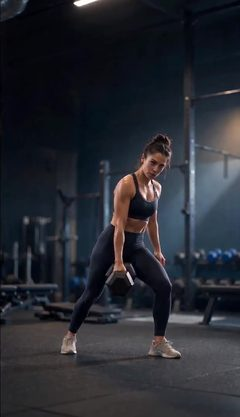
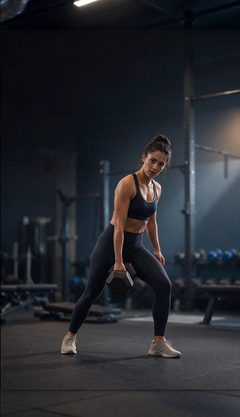
1.8.73 : écran du prénom revu (titre en haut, champ et flèche à la hauteur des haltères), images HD au cadrage du film, Bonjour pendant le film, texte d'aide qui monte, fond Bienvenue imposé
Claude-Session: https://claude.ai/code/session_01D2bERS9HLrYDfbmYJhTd1N

diff --git a/js/programmes.js b/js/programmes.js
@@ -72,6 +72,12 @@ function onboardingContinue(ev) {
 // le fond « Bienvenue » est sa dernière image. « Bonjour + prénom » apparaît pendant la dernière seconde ;
 // le menu, le + et le texte d'aide apparaissent à la fin. Sans le fond « Bienvenue », ou si le film ne se lance pas : « Bonjour » direct.
 const INTRO_FILM = 'wallpapers/intro.mp4';
+// 1.8.73 : le fond « Bienvenue » est imposé à l'écran du prénom (et à la réinitialisation des données), sinon le film ne se jouait pas
+function forceWelcomeWallpaper() {
+  if (getWallpaper() === 'bienvenue') return;
+  try { localStorage.setItem(WALLPAPER_KEY, 'bienvenue'); } catch (e) {}
+  applyWallpaper();
+}
 function playIntroFilm() {
   const wp = document.getElementById('app-wallpaper');
   if (!wp || getWallpaper() !== 'bienvenue' || !document.createElement('video').canPlayType) return false;
@@ -79,27 +85,31 @@ function playIntroFilm() {
   v.className = 'intro-video';
   v.muted = true; v.defaultMuted = true; v.playsInline = true;
   v.setAttribute('muted', ''); v.setAttribute('playsinline', ''); v.setAttribute('aria-hidden', 'true');
-  v.preload = 'auto'; v.poster = 'wallpapers/intro-debut.jpg'; v.src = INTRO_FILM;
+  v.preload = 'auto'; v.src = INTRO_FILM;
   document.body.classList.add('intro');
   wp.appendChild(v);
   let greeted = false, done = false, timer = null;
+  // « Bonjour + prénom » dès la première seconde du film (1.8.73)
   const greet = () => {
     if (greeted) return;
     greeted = true;
     document.body.classList.add('intro-end');
     renderProgramOverview();
   };
+  // Fin : le film s'efface sur l'image haute définition (même cadrage), le texte d'aide monte du bas en fondu
   const end = () => {
     if (done) return;
     done = true;
     clearTimeout(timer);
     greet();
+    v.classList.add('out');
     document.body.classList.remove('intro', 'intro-end');
     document.body.classList.add('intro-reveal');
-    v.remove();
-    setTimeout(() => document.body.classList.remove('intro-reveal'), 600);
+    setTimeout(() => v.remove(), 400);
+    setTimeout(() => document.body.classList.remove('intro-reveal'), 900);
   };
-  v.addEventListener('timeupdate', () => { if (v.duration && v.currentTime >= v.duration - 1) greet(); });
+  v.addEventListener('playing', () => v.classList.add('on'));
+  v.addEventListener('timeupdate', () => { if (v.currentTime >= 1) greet(); });
   v.addEventListener('ended', end);
   v.addEventListener('error', end);
   timer = setTimeout(end, 9000);   // filet : le film dure 5,2 s
@@ -114,6 +124,7 @@ function updateProgramHeader() {
   const add = document.getElementById('add-program-btn');
   const onb = (document.body.dataset.tab || 'programme') === 'programme' && programView === 'home' && isOnboarding();
   document.body.classList.toggle('onboarding', onb);
+  if (onb) forceWelcomeWallpaper();   // 1.8.73 : l'écran du prénom a toujours le fond du film d'accueil
   if (add) {
     add.style.display = (document.body.dataset.tab || 'programme') === 'programme' && programView === 'home' && !onb ? 'flex' : 'none';
     add.classList.toggle('attention', !plusSeen() && !getPrograms().length);
@@ -235,9 +246,11 @@ function emptyProgramsHtml() {
   // 1.8.62 : premier lancement = écran du prénom ; ensuite « Bonjour + prénom », phrase manuscrite, texte d'aide en bas
   if (isOnboarding()) return `
     <form class="onb" onsubmit="onboardingContinue(event)">
-      <h1 class="onb-title">Bienvenue sur Mon Carnet de Salle</h1>
-      <label class="ed-field onb-field"><input id="onb-name" type="text" autocomplete="given-name" maxlength="30" placeholder="Quel est ton nom ?" aria-label="Quel est ton nom ?" oninput="onboardingInput(this)"><span class="ed-pen">${PEN_SVG}</span></label>
-      <button id="onb-continue" class="btn onb-btn" type="submit" disabled>Continuer</button>
+      <h1 class="onb-title"><span class="onb-hello">Bienvenue sur</span><span class="onb-app">Mon Carnet de Salle</span></h1>
+      <div class="onb-row">
+        <label class="ed-field onb-field"><input id="onb-name" type="text" autocomplete="given-name" maxlength="30" placeholder="Quel est ton nom ?" aria-label="Quel est ton nom ?" oninput="onboardingInput(this)"><span class="ed-pen">${PEN_SVG}</span></label>
+        <button id="onb-continue" class="onb-go" type="submit" disabled aria-label="Continuer">${ARROW_SVG}</button>
+      </div>
     </form>`;
   return `
     <div class="prog-empty">${programGreetingHtml(null)}

diff --git a/style.css b/style.css
@@ -1305,13 +1305,29 @@ body[data-pview="choose"] .ed-top { margin-bottom: 8px; }
 .scope-pause { font-weight: 600; color: var(--warn); }
 .stats-scope .scope-pause { color: var(--inv-warn); }
 .restore-when .prog-dot { display: inline-block; vertical-align: middle; margin: -2px 8px 0 0; }
-/* 1.8.72 (co-auteur : Claude) : film d'accueil (premier lancement, entre le prénom et « Bonjour + prénom »).
-   L'écran du prénom montre la première image du film ; le film se joue dans le calque du fond, sous le voile ;
-   « Bonjour + prénom » apparaît pendant la dernière seconde ; le reste apparaît à la fin (fondu de 0,4 s). */
+/* 1.8.72–1.8.73 (co-auteur : Claude) : film d'accueil (premier lancement, entre le prénom et « Bonjour + prénom »).
+   Images de début et de fin en haute définition, au cadrage exact du film ; le film se joue dans le calque du fond, sous le voile,
+   et s'efface (0,3 s) sur l'image de fin ; « Bonjour + prénom » apparaît dès la première seconde ; à la fin, le texte d'aide
+   monte du bas en fondu (0,6 s), le nom de l'app, le + et le menu apparaissent en fondu (0,4 s). */
 :root[data-wallpaper="bienvenue"] body.onboarding #app-wallpaper, :root[data-wallpaper="bienvenue"] body.intro #app-wallpaper { background-image: url('wallpapers/intro-debut.jpg'); }
-#app-wallpaper .intro-video { position: absolute; inset: 0; width: 100%; height: 100%; object-fit: cover; object-position: center; }
+#app-wallpaper .intro-video { position: absolute; inset: 0; width: 100%; height: 100%; object-fit: cover; object-position: center; opacity: 0; transition: opacity 0.3s ease; }
+#app-wallpaper .intro-video.on { opacity: 1; }
+#app-wallpaper .intro-video.out { opacity: 0; }
 body.intro .onb, body.intro #app-title, body.intro nav, body.intro #add-program-btn, body.intro #settings-btn, body.intro .prog-empty-sub, body.intro .prog-sep { visibility: hidden; }
 body.intro:not(.intro-end) .prog-greet { visibility: hidden; }
 body.intro-end .prog-greet { animation: introFade 0.8s ease-out both; }
-body.intro-reveal #app-title, body.intro-reveal nav, body.intro-reveal #add-program-btn, body.intro-reveal .prog-empty-sub { animation: introFade 0.4s ease-out both; }
+body.intro-reveal #app-title, body.intro-reveal nav, body.intro-reveal #add-program-btn { animation: introFade 0.4s ease-out both; }
+body.intro-reveal .prog-empty-sub { animation: introRise 0.6s ease-out both; }
 @keyframes introFade { from { opacity: 0; } to { opacity: 1; } }
+@keyframes introRise { from { opacity: 0; transform: translateY(48px); } to { opacity: 1; transform: none; } }
+/* 1.8.73 : écran du prénom : « Bienvenue sur » manuscrit et MON CARNET DE SALLE en haut (le visage reste visible) ;
+   champ et flèche « Continuer » sur une ligne, à la hauteur des haltères de l'image (calés sur l'image, quelle que soit la taille de l'écran) */
+.onb { justify-content: flex-start; }
+.onb-title { margin: 0; text-align: left; text-transform: none; }
+.onb-hello { display: block; font-family: var(--font-hand); font-weight: 600; font-size: 2.625rem; line-height: 1.05; transform: rotate(-2deg); transform-origin: left top; }
+.onb-app { display: block; margin-top: 4px; font-family: var(--font-display); font-weight: 700; font-size: 2rem; line-height: 1.05; text-transform: uppercase; }
+.onb-row { --hr: max(var(--app-h), 100vw / var(--ui-zoom) / 0.5762); position: fixed; left: var(--gutter); right: var(--gutter); top: calc(var(--app-h) / 2 + (0.836 - 0.5) * var(--hr) - 26px); display: flex; align-items: center; gap: 12px; }
+.onb-row .onb-field { flex: 1; min-width: 0; }
+.onb-go { flex: none; width: 52px; height: 52px; padding: 0; display: flex; align-items: center; justify-content: center; border: none; border-radius: 50%; background: var(--primary-strong); color: var(--on-strong); box-shadow: var(--sh-btn); cursor: pointer; }
+.onb-go svg { width: 24px; height: 24px; fill: none; stroke: currentColor; stroke-width: 2; stroke-linecap: round; stroke-linejoin: round; }
+.onb-go:disabled { opacity: 0.4; box-shadow: none; cursor: default; }

diff --git a/sw.js b/sw.js
@@ -4,7 +4,7 @@
 // APP_VERSION doit être incrémenté à chaque release (en même temps que
 // manifest.json) : le navigateur ne réinstalle le service worker que si
 // le contenu de ce fichier change.
-const APP_VERSION = '1.8.72';
+const APP_VERSION = '1.8.73';
 // 1.7.64 (co-auteur : Claude) : production (…/suivi-fitness/) et test (…/suivi-fitness/dev/) sont sur le même
 // domaine et partagent le stockage des caches : chaque version nomme ses caches d'après son dossier et ne
 // supprime que les siens (plus les anciens caches sans dossier, d'avant la 1.7.64).

diff --git a/app.js b/app.js
@@ -5187,6 +5187,7 @@ async function resetData() {
       state = migrateState(defaultData).state;
       normalizePrograms();
       programDraft = null; programView = 'home';
+      forceWelcomeWallpaper();   // 1.8.73
       clearEditState();
       clearDraft();
       discardWeightInput();

diff --git a/tests/test_fond_defaut.py b/tests/test_fond_defaut.py
@@ -24,6 +24,11 @@ with Srv() as base, sync_playwright() as p:
     pg.evaluate("switchTab('fond')"); pg.wait_for_timeout(200)
     check('Réglages › Fond d\'écran : Bienvenue coché',
           pg.get_attribute('.wallpaper-opt[data-wallpaper="bienvenue"]', 'aria-checked') == 'true')
+    # 1.8.73 : à l'écran du prénom, le fond « Bienvenue » est imposé ; une fois le prénom donné, le choix est libre
+    pg.evaluate("localStorage.setItem('h49_wallpaper','ratelier')"); pg.reload(); pg.wait_for_timeout(700)
+    check('écran du prénom : fond « Bienvenue » imposé (1.8.73)', pg.evaluate("getWallpaper()") == 'bienvenue')
+    pg.evaluate("localStorage.setItem('h49_user_name','Test')"); pg.reload(); pg.wait_for_timeout(700)
+    pg.evaluate("switchTab('fond')"); pg.wait_for_timeout(200)
     # « Aucun » choisi : retenu après relance
     pg.click('.wallpaper-opt[data-wallpaper="none"]'); pg.wait_for_timeout(200)
     pg.reload(); pg.wait_for_timeout(700)

diff --git a/CHANGELOG.md b/CHANGELOG.md
@@ -7,6 +7,15 @@ et ce projet respecte [Semantic Versioning](https://semver.org/spec/v2.0.0.html)
 
 ---
 
+## [1.8.73] - 2026-11-20
+### 🎬 Film d'accueil, suite (co-auteur : Claude)
+- Écran du prénom : « Bienvenue sur » en manuscrit puis MON CARNET DE SALLE en haut de l'écran, pour laisser voir le visage ; champ du prénom et flèche « Continuer » sur une même ligne, à la hauteur des haltères de l'image (calés sur l'image, quelle que soit la taille de l'écran) ; flèche grisée tant que le prénom est vide.
+- Images de début et de fin en haute définition (1240 × 2152), au cadrage exact du film : les photos d'origine sont recalées sur la première et la dernière image du film ; le film s'efface (0,3 s) sur l'image de fin.
+- « Bonjour + prénom » apparaît dès la première seconde du film ; à la fin, le texte d'aide monte du bas en fondu (0,6 s).
+- Le fond « Bienvenue » est imposé à l'écran du prénom et à la réinitialisation des données : avec un autre fond déjà choisi, ni les images ni le film ne s'affichaient.
+
+---
+
 ## [1.8.72] - 2026-11-20
 ### 🎬 Film d'accueil au premier lancement (co-auteur : Claude)
 - Après « Continuer » sur l'écran du prénom, un film de 5 s se joue une seule fois, à la place du fond d'écran et sous le voile habituel ; « Bonjour + prénom » apparaît pendant sa dernière seconde, puis le menu, le + et le texte d'aide (fondu de 0,4 s).
